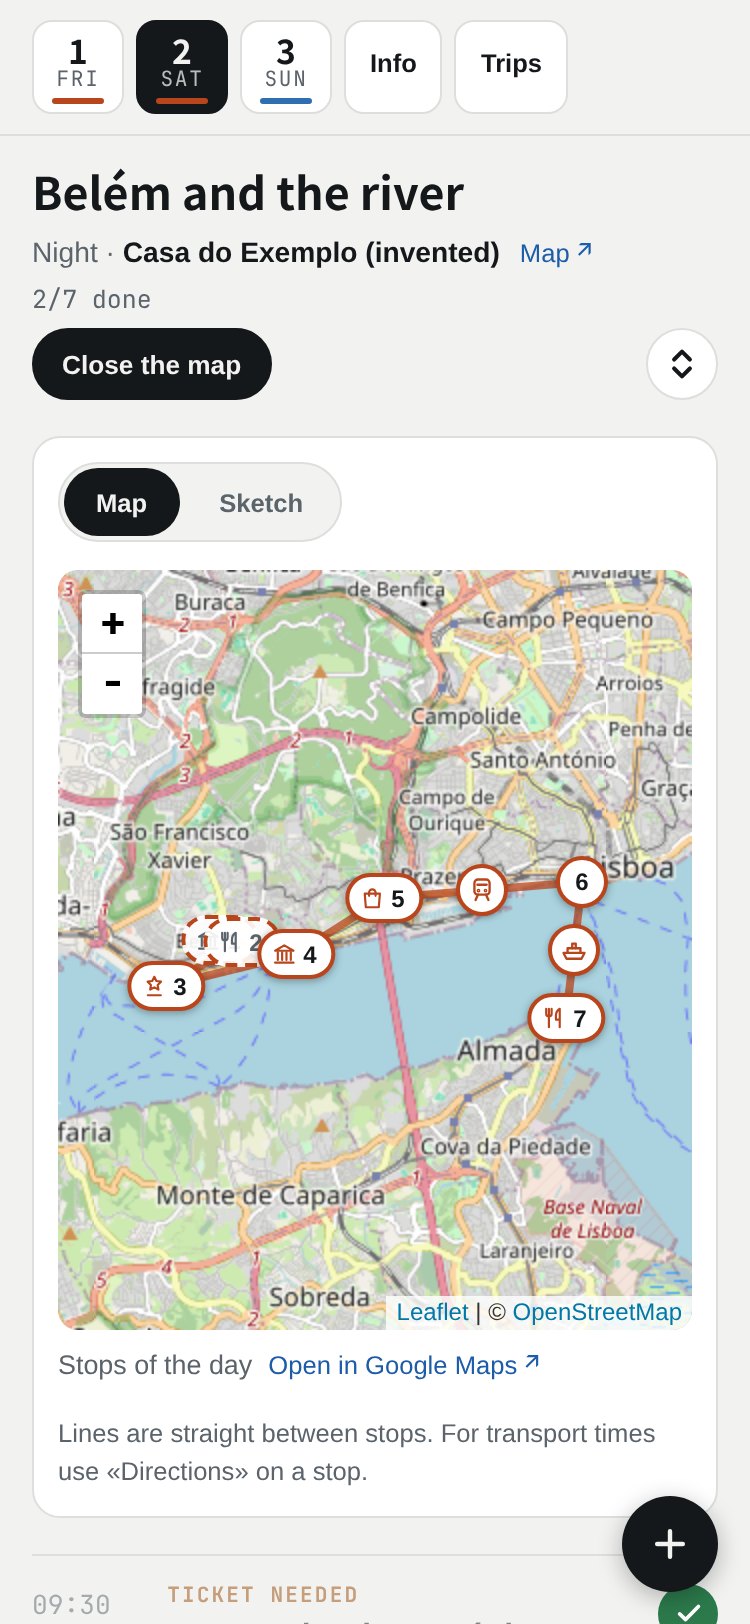
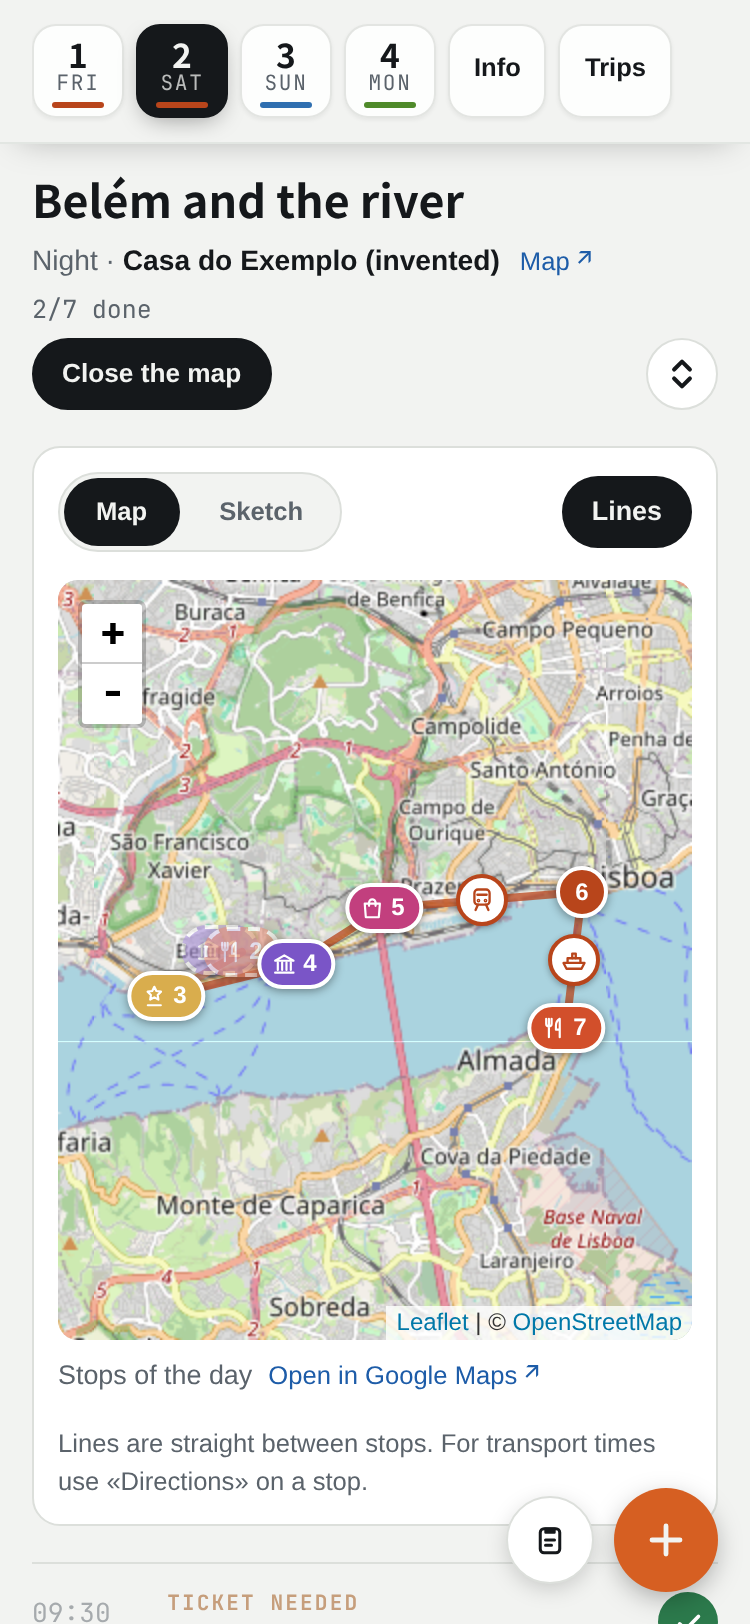
3.3.0: Paste at the bottom of every page; hour and minute lists; orange +
- A Paste button next to +, on every page of an open trip: it reads what
  was copied and does what the Share menu does on Android (a Google Maps
  place opens the stop form filled in; a trip or an assistant's changes
  are loaded). On an iPhone, where web apps cannot be share targets, this
  is the way in: Copy, then Paste. Both go through takeText() in
  js/app.js. If the phone does not hand over the clipboard, a field to
  paste by hand opens. While the page scrolls down it shrinks to its icon.
- The time of a stop is chosen from two lists, hour and minutes, instead
  of <input type="time">: Chrome on Android put its clock's Set button
  off narrow screens.
- The + button is the accent colour in both themes; the dark grey one
  was hard to see.
- README: install on iPhone from Safari or Chrome; Copy then Paste on
  iPhone. Screenshots retaken.

diff --git a/js/app.js b/js/app.js
@@ -23,6 +23,7 @@ const CHEVRON = '<svg viewBox="0 0 16 16" fill="none" aria-hidden="true"><path d
 const UNFOLD = '<svg viewBox="0 0 16 16" fill="none" aria-hidden="true"><path d="M4.5 6L8 2.5 11.5 6M4.5 10L8 13.5 11.5 10" stroke="currentColor" stroke-width="1.8" stroke-linecap="round" stroke-linejoin="round"/></svg>';
 const FOLD = '<svg viewBox="0 0 16 16" fill="none" aria-hidden="true"><path d="M4.5 2.5L8 6l3.5-3.5M4.5 13.5L8 10l3.5 3.5" stroke="currentColor" stroke-width="1.8" stroke-linecap="round" stroke-linejoin="round"/></svg>';
 const PLUS = '<svg viewBox="0 0 24 24" fill="none" aria-hidden="true"><path d="M12 5v14M5 12h14" stroke="currentColor" stroke-width="2.4" stroke-linecap="round"/></svg>';
+const CLIP = '<svg viewBox="0 0 24 24" fill="none" aria-hidden="true"><rect x="5.5" y="4.5" width="13" height="16" rx="2.5" stroke="currentColor" stroke-width="2"/><path d="M9 4.5h6v2.5H9z" fill="currentColor" stroke="currentColor" stroke-width="1.6" stroke-linejoin="round"/><path d="M9 12h6M9 15.5h4" stroke="currentColor" stroke-width="2" stroke-linecap="round"/></svg>';
 const DOTS = '<svg viewBox="0 0 16 16" aria-hidden="true"><circle cx="3.5" cy="8" r="1.5" fill="currentColor"/><circle cx="8" cy="8" r="1.5" fill="currentColor"/><circle cx="12.5" cy="8" r="1.5" fill="currentColor"/></svg>';
 const CHECK = '<svg viewBox="0 0 16 16" fill="none" aria-hidden="true"><path d="M3 8.5l3.2 3L13 4.5" stroke="currentColor" stroke-width="2" stroke-linecap="round" stroke-linejoin="round"/></svg>';
 
@@ -424,8 +425,18 @@ function markStrip(){
   $days.classList.toggle("more-l", $days.scrollLeft > 2);
   $days.classList.toggle("more-r", $days.scrollLeft < max - 2);
 }
+// Paste at the bottom: while the page scrolls down it shrinks to its icon, so it
+// covers less of the stops; scrolling up, or at the top or the end, it has its word.
+let lastY = 0;
+function markFabs(){
+  const y = scrollTop(), el = scroller || document.documentElement;
+  const atEnd = y + el.clientHeight >= el.scrollHeight - 24;
+  if(y < 40 || atEnd || y < lastY - 6) $fabs.classList.remove("compact");
+  else if(y > lastY + 6) $fabs.classList.add("compact");
+  if(Math.abs(y - lastY) > 6) lastY = y;
+}
 let stripFrame = 0;
-const onScroll = () => { if(!stripFrame) stripFrame = requestAnimationFrame(() => { stripFrame = 0; markStrip(); }); };
+const onScroll = () => { if(!stripFrame) stripFrame = requestAnimationFrame(() => { stripFrame = 0; markStrip(); markFabs(); }); };
 (scroller || window).addEventListener("scroll", onScroll, {passive: true});
 window.addEventListener("resize", onScroll, {passive: true});
 $days.addEventListener("scroll", onScroll, {passive: true});
@@ -492,8 +503,10 @@ function copyErrors(){
 }
 
 // A trip pasted as text, as a chat assistant gives it: no file to save on the phone.
+// `any`: opened by the Paste button when the phone would not hand over what was
+// copied, so it takes a place too (takeText decides).
 let pasteDialog = null;
-function pasteTrip(){
+function pasteTrip(any = false){
   if(!pasteDialog){
     pasteDialog = document.createElement("dialog");
     pasteDialog.className = "sheet";
@@ -503,8 +516,8 @@ function pasteTrip(){
   }
   const d = pasteDialog;
   d.innerHTML = `<form class="sheet-form" novalidate>
-    <div class="sheet-head"><h2 id="paste-title">${esc(t("pasteTrip"))}</h2><button type="button" class="iconbtn" data-close aria-label="${esc(t("cancel"))}">×</button></div>
-    <p class="foot">${esc(t("pasteHelp"))}</p>
+    <div class="sheet-head"><h2 id="paste-title">${esc(t(any ? "paste" : "pasteTrip"))}</h2><button type="button" class="iconbtn" data-close aria-label="${esc(t("cancel"))}">×</button></div>
+    <p class="foot">${esc(t(any ? "pasteAnyHelp" : "pasteHelp"))}</p>
     <textarea id="paste-text" rows="8" autocomplete="off" autocapitalize="off" spellcheck="false" placeholder='{"format": "travel-in-my-pocket/1", …}'></textarea>
     <p class="errbox" data-error role="alert" hidden></p>
     <div class="sheet-actions">
@@ -524,15 +537,14 @@ function pasteTrip(){
   };
   d.querySelector("form").onsubmit = async e => {
     e.preventDefault();
-    const text = jsonIn(area.value);
-    if(!text){
+    if(!area.value.trim()){
       const box = d.querySelector("[data-error]");
       box.textContent = t("pasteEmpty");
       box.hidden = false;
       return;
     }
     d.close();
-    try{ await importText(text, "pasted.json"); }
+    try{ if(any) await takeText(area.value, "pasted.json"); else await importText(jsonIn(area.value), "pasted.json"); }
     catch(err){ S.importError = {title: t("importFailed"), items: [String(err && err.message || err)]}; render(); }
   };
   d.showModal();
@@ -853,21 +865,27 @@ function syncLive(wanted){
   live.handle.setMarks(wanted.gone);
 }
 
-const $fab = document.createElement("button");
-$fab.type = "button";
-$fab.className = "fab";
-$fab.hidden = true;
-$fab.innerHTML = PLUS;
-document.body.appendChild($fab);
+// The buttons at the bottom right: Paste on every page of an open trip, + on a day.
+const $fabs = document.createElement("div");
+$fabs.className = "fabs";
+$fabs.hidden = true;
+$fabs.innerHTML = `<button type="button" class="fab-paste">${CLIP}<span></span></button><button type="button" class="fab">${PLUS}</button>`;
+document.body.appendChild($fabs);
+const $fab = $fabs.querySelector(".fab"), $fabPaste = $fabs.querySelector(".fab-paste");
 $fab.addEventListener("click", () => newStop());
+$fabPaste.addEventListener("click", () => pasteAnything());
 
 function render(){
   const r = route();
   renderStrip(r);
+  $fabs.hidden = r.name === "welcome";
   $fab.hidden = r.name !== "day";
   $fab.setAttribute("aria-label", t("addStop"));
   $fab.title = t("addStop");
-  document.body.classList.toggle("has-fab", r.name === "day");
+  $fabPaste.querySelector("span").textContent = t("paste");
+  $fabPaste.title = t("pasteAnyHelp");
+  $fabPaste.setAttribute("aria-label", t("paste"));
+  document.body.classList.toggle("has-fab", !$fabs.hidden);
   // While the page is rebuilt the interactive map is out of it, and the page is shorter
   // by its height: a browser that lays the page out in that moment pulls the scroll up
   // (a tap on ⋯ or Edit under an open map jumped by the map's height). The page keeps
@@ -1150,12 +1168,29 @@ async function takeSharedPlace(){
   if(!parts.length && q.get("shared") !== "1") return;
   history.replaceState(null, "", location.pathname + location.hash);
   if(!parts.length) return;
-  const json = jsonIn(parts.join("\n"));
-  if(/"format"\s*:\s*"travel-in-my-pocket\//.test(json)){ importText(json, "shared.json"); return; }
+  takeText(parts.join("\n"), "shared.json");
+}
+
+// What was shared or pasted, wherever it came from: JSON (a trip, or an assistant's
+// changes, even with text around it) is loaded; anything else is a place, and opens
+// the stop form filled in. The share menu on Android and the Paste button everywhere
+// end here, so they behave the same.
+async function takeText(text, name){
+  const json = jsonIn(text);
+  if(json.startsWith("{")){ await importText(json, name); return; }
   if(!trip()){ toast(t("shareNeedsTrip")); return; }
   // The Maps app often repeats the link inside the text: keep each piece once.
-  const text = [...new Set(parts.join("\n").split("\n").map(s => s.trim()).filter(Boolean))].join("\n");
-  newStop(text);
+  newStop([...new Set(String(text).split("\n").map(s => s.trim()).filter(Boolean))].join("\n"));
+}
+
+// The Paste button: what was copied, in one tap (iPhone shows its own Paste bubble
+// first). If the phone will not hand it over, or nothing was copied, a field to paste
+// it by hand.
+async function pasteAnything(){
+  let text = "";
+  try{ text = await navigator.clipboard.readText(); }catch(e){}
+  if(text && text.trim()) await takeText(text, "pasted.json");
+  else pasteTrip(true);
 }
 
 /* ---------- start ---------- */

diff --git a/js/i18n.js b/js/i18n.js
@@ -11,7 +11,7 @@ export const STRINGS = {
     loadTrip: "Load a trip file",
     tryDemo: "Try the example trip",
     installTitle: "Before you leave",
-    installIos: "**iPhone**: open this page in Safari, tap Share, then «Add to Home Screen». Load the trip from the icon on the Home Screen, not from Safari.",
+    installIos: "**iPhone**: open this page in Safari (or Chrome), tap Share, then «Add to Home Screen». Load the trip from the icon on the Home Screen, not from Safari.",
     installAndroid: "**Android**: open the browser menu and tap «Install app» or «Add to Home screen».",
     installOnce: "Open the app once with a connection, then it also works in airplane mode.",
     makeYourOwn: "How to create a trip file",
@@ -50,7 +50,8 @@ export const STRINGS = {
     fAddressPh: "Paste or write here",
     fAddressHelp: "What Google Maps shares, a full address, or coordinates. Name and position are filled in for you.",
     paste: "Paste",
-    fTitle: "Name", fDay: "Day", fTime: "Time", fPlan: "Plan", routeLines: "Lines",
+    pasteAnyHelp: "Paste what you copied: a place from Google Maps, a trip, or the changes an assistant wrote.",
+    fTitle: "Name", fDay: "Day", fTime: "Time", fHour: "Hour", fMinute: "Minutes", fPlan: "Plan", routeLines: "Lines",
     sunTimes: "Sunrise {r} · sunset {s}", afterDark: "After sunset",
     timeWords: "Write it in words", timeClock: "Use the clock", timeWordsPh: "Evening",
     fTravel: "How you get there", travel_none: "Other",
@@ -112,7 +113,7 @@ export const STRINGS = {
     aiEditTitle: "Have an AI assistant change this trip",
     aiEdit1: "Copy the message: it has an outline of this trip, nothing to save or attach.",
     aiEdit2: "Paste it into the assistant and write what to change in place of the part in brackets.",
-    aiEdit3: "The assistant answers with the changes only. Copy them and tap Paste a trip: the app applies them as a new version.",
+    aiEdit3: "The assistant answers with the changes only. Copy them and tap Paste, at the bottom: the app applies them as a new version.",
     aiEditPrompt: "Change my trip in the TIMP app like this: [what to change].\nAnswer only with the changes, in the format below, in one JSON block. Change nothing else.",
     aiEditMore: "(…followed by how to write changes and the outline of \u201c{t}\u201d, copied with the message.)",
     changesFailed: "These changes cannot be applied", changesNoTrip: "There is no trip \u201c{id}\u201d on this phone.", changesNoOpen: "Open the trip to change first.",
@@ -145,7 +146,7 @@ export const STRINGS = {
     loadTrip: "Carica un file viaggio",
     tryDemo: "Prova il viaggio di esempio",
     installTitle: "Prima di partire",
-    installIos: "**iPhone**: apri questa pagina in Safari, tocca Condividi, poi «Aggiungi alla schermata Home». Carica il viaggio dall'icona nella Home, non da Safari.",
+    installIos: "**iPhone**: apri questa pagina in Safari (o Chrome), tocca Condividi, poi «Aggiungi alla schermata Home». Carica il viaggio dall'icona nella Home, non da Safari.",
     installAndroid: "**Android**: apri il menu del browser e tocca «Installa app» o «Aggiungi a schermata Home».",
     installOnce: "Apri l'app una volta con la rete: poi funziona anche in modalità aereo.",
     makeYourOwn: "Come creare un file viaggio",
@@ -184,7 +185,8 @@ export const STRINGS = {
     fAddressPh: "Incolla o scrivi qui",
     fAddressHelp: "Quello che condivide Google Maps, un indirizzo completo o delle coordinate. Nome e posizione si compilano da soli.",
     paste: "Incolla",
-    fTitle: "Nome", fDay: "Giorno", fTime: "Orario", fPlan: "Piano", routeLines: "Linee",
+    pasteAnyHelp: "Incolla quello che hai copiato: un luogo da Google Maps, un viaggio, o le modifiche scritte da un assistente.",
+    fTitle: "Nome", fDay: "Giorno", fTime: "Orario", fHour: "Ora", fMinute: "Minuti", fPlan: "Piano", routeLines: "Linee",
     sunTimes: "Alba {r} · tramonto {s}", afterDark: "Dopo il tramonto",
     timeWords: "Scrivilo a parole", timeClock: "Usa l'orologio", timeWordsPh: "Sera",
     fTravel: "Come ci si arriva", travel_none: "Altro",
@@ -246,7 +248,7 @@ export const STRINGS = {
     aiEditTitle: "Fai modificare questo viaggio a un assistente AI",
     aiEdit1: "Copia il messaggio: contiene un riassunto di questo viaggio, niente da salvare o allegare.",
     aiEdit2: "Incollalo nell'assistente e scrivi cosa cambiare al posto della parte tra parentesi.",
-    aiEdit3: "L'assistente risponde solo con le modifiche. Copiale e tocca Incolla un viaggio: l'app le applica come nuova versione.",
+    aiEdit3: "L'assistente risponde solo con le modifiche. Copiale e tocca Incolla, in basso: l'app le applica come nuova versione.",
     aiEditPrompt: "Modifica il mio viaggio nell'app TIMP così: [cosa cambiare]. Scrivi i testi in italiano.\nRispondi solo con le modifiche, nel formato qui sotto, in un unico blocco JSON. Non cambiare nient'altro.",
     aiEditMore: "(…segue come scrivere le modifiche e il riassunto di \u201c{t}\u201d, copiati insieme al messaggio.)",
     changesFailed: "Queste modifiche non si possono applicare", changesNoTrip: "Su questo telefono non c'è il viaggio \u201c{id}\u201d.", changesNoOpen: "Apri prima il viaggio da modificare.",

diff --git a/css/app.css b/css/app.css
@@ -300,13 +300,19 @@ ol.stops{list-style:none;margin:0;padding:0}
 .aihow .steps{margin-top:8px}
 .errbox b{font-weight:600}
 
-/* the + button: a stop added on the day on screen */
-.fab{position:fixed;right:calc(max(16px,env(safe-area-inset-right,0px)));bottom:calc(16px + env(safe-area-inset-bottom,0px));z-index:15;width:48px;height:48px;border-radius:50%;border:0;background:var(--ink);color:var(--bg);display:grid;place-items:center;cursor:pointer;box-shadow:0 3px 12px rgba(0,0,0,.28);padding:0}
-.fab svg{width:22px;height:22px}
-.fab:active{transform:scale(.96)}
-/* dark theme: a raised dark button, not a white disc */
-@media (prefers-color-scheme: dark){ :root:not([data-theme="light"]) .fab{background:#2b3137;color:var(--ink);box-shadow:0 0 0 1px rgba(255,255,255,.08),0 8px 24px rgba(0,0,0,.6)} }
-:root[data-theme="dark"] .fab{background:#2b3137;color:var(--ink);box-shadow:0 0 0 1px rgba(255,255,255,.08),0 8px 24px rgba(0,0,0,.6)}
+/* bottom right: Paste (what was copied: a place, a trip, changes) and + (a stop on the
+   day on screen). + is the one coloured button, in both themes. */
+.fabs{position:fixed;right:calc(max(16px,env(safe-area-inset-right,0px)));bottom:calc(16px + env(safe-area-inset-bottom,0px));z-index:15;display:flex;align-items:center;gap:10px}
+.fab{width:52px;height:52px;border-radius:50%;border:0;background:var(--accent);color:var(--bg);display:grid;place-items:center;cursor:pointer;box-shadow:0 4px 14px -2px rgba(0,0,0,.35);padding:0;-webkit-tap-highlight-color:transparent}
+.fab svg{width:24px;height:24px}
+.fab-paste{display:inline-flex;align-items:center;gap:7px;height:44px;padding:0 16px 0 13px;border-radius:999px;border:1px solid var(--line);background:var(--surface);color:var(--ink);font:600 .88rem var(--f-body);cursor:pointer;box-shadow:0 3px 12px -2px rgba(0,0,0,.22);-webkit-tap-highlight-color:transparent}
+.fab-paste svg{width:18px;height:18px;flex:none}
+.fab-paste span{max-width:8em;overflow:hidden;white-space:nowrap;transition:max-width .2s,opacity .15s}
+/* while the page scrolls down: only the icon, a circle */
+.fab-paste{transition:padding .2s,gap .2s}
+.fabs.compact .fab-paste{padding:0 12px;gap:0}
+.fabs.compact .fab-paste span{max-width:0;opacity:0}
+.fab:active,.fab-paste:active{transform:scale(.96)}
 body.has-fab main.gutter{padding-bottom:96px}
 body.has-fab #toast{bottom:calc(80px + env(safe-area-inset-bottom,0px))}
 
@@ -319,11 +325,15 @@ body.has-fab #toast{bottom:calc(80px + env(safe-area-inset-bottom,0px))}
 .sheet-head h2{font:700 1.2rem/1.2 var(--f-display);margin:0}
 .sheet-head .iconbtn{margin-left:0;font-size:1.4rem;line-height:1}
 .sheet .field{display:grid;gap:6px;min-width:0}
-.sheet .field.two{grid-template-columns:1.6fr 1fr;gap:10px}
+.sheet .field.two{grid-template-columns:1.4fr 1fr;gap:10px}
 .sheet label,.sheet .label{font-weight:600;font-size:.88rem}
 .sheet input,.sheet select,.sheet textarea{font:500 .95rem var(--f-body);padding:10px 12px;border:1px solid var(--line);border-radius:10px;background:var(--bg);color:var(--ink);width:100%;min-height:44px;min-width:0}
 .sheet textarea{resize:vertical;min-height:72px;line-height:1.45}
 .sheet [data-time-mode]{justify-self:start;font-size:.82rem}
+/* the time: hour and minutes, two lists side by side */
+.sheet .clock{display:flex;align-items:center;gap:4px;min-width:0}
+.sheet .clock select{flex:1 1 0;padding:10px 4px 10px 8px;font:500 .95rem var(--f-mono);font-variant-numeric:tabular-nums}
+.sheet .clock > span{font:600 1rem var(--f-mono);color:var(--muted)}
 .sheet #stop-src{resize:none;min-height:44px;line-height:1.4;overflow-y:auto}
 /* the map in the stop form, to put the pin by hand */
 .pickwrap{display:grid;gap:8px;min-width:0}
@@ -382,4 +392,4 @@ html:has(dialog[open]){overflow:hidden}
 #toast .x:hover{opacity:1}
 
 @media (max-width:380px){ .stop{grid-template-columns:3.6rem 1fr auto;gap:10px} .rows > div{grid-template-columns:1fr} }
-@media (prefers-reduced-motion: reduce){ #days{scroll-behavior:auto} .chev{transition:none} }
+@media (prefers-reduced-motion: reduce){ #days{scroll-behavior:auto} .chev,.fab-paste,.fab-paste span{transition:none} }

diff --git a/js/editor.js b/js/editor.js
@@ -64,11 +64,16 @@ export function openStopEditor(o){
     searching: false
   };
   const s0 = o.stop || {};
-  // The time: the phone's own clock picker, or words ("Evening") for a time that is not
-  // a clock time. A stop that has words keeps them.
+  // The time: hour and minutes from two lists, or words ("Evening") for a time that is
+  // not a clock time. A stop that has words keeps them. Not <input type="time">: Chrome
+  // on Android opens its own clock, whose Set button falls off narrow screens.
   const time0 = s0.time || timeNow(o.timezone);
   const clock0 = clockMinutes(time0);
-  const hhmm = m => String(Math.floor(m / 60)).padStart(2, "0") + ":" + String(m % 60).padStart(2, "0");
+  const two = n => String(n).padStart(2, "0");
+  const h0 = clock0 !== null ? Math.floor(clock0 / 60) : 12, m0 = clock0 !== null ? clock0 % 60 : 0;
+  // Minutes in steps of five, plus the stop's own minute when it is not one of them.
+  const minutes = [...new Set([...Array(12).keys()].map(i => i * 5).concat(m0))].sort((a, b) => a - b);
+  const opts = (list, cur) => list.map(n => `<option value="${two(n)}"${n === cur ? " selected" : ""}>${two(n)}</option>`).join("");
 
   const days = o.trip.days;
   const dayOptions = days.map((d, i) => {
@@ -111,8 +116,8 @@ export function openStopEditor(o){
         <select id="stop-day">${dayOptions}</select>
       </div>
       <div class="field">
-        <label for="stop-time">${esc(t("fTime"))}</label>
-        <input id="stop-time" type="time" required value="${clock0 !== null ? hhmm(clock0) : ""}"${clock0 !== null ? "" : " hidden"}>
+        <label for="stop-hh" id="stop-time-label">${esc(t("fTime"))}</label>
+        <span id="stop-time" class="clock" role="group" aria-labelledby="stop-time-label"${clock0 !== null ? "" : " hidden"}><select id="stop-hh" aria-label="${esc(t("fHour"))}">${opts([...Array(24).keys()], h0)}</select><span aria-hidden="true">:</span><select id="stop-mm" aria-label="${esc(t("fMinute"))}">${opts(minutes, m0)}</select></span>
         <input id="stop-time-words" type="text" autocomplete="off" aria-label="${esc(t("fTime"))}" placeholder="${esc(t("timeWordsPh"))}" value="${clock0 === null ? esc(time0) : ""}"${clock0 === null ? "" : " hidden"}>
         <button type="button" class="linkbtn" data-time-mode>${esc(t(clock0 !== null ? "timeWords" : "timeClock"))}</button>
       </div>
@@ -300,7 +305,7 @@ export function openStopEditor(o){
       const toWords = !clock.hidden;
       clock.hidden = toWords; words.hidden = !toWords;
       e.target.closest("[data-time-mode]").textContent = t(toWords ? "timeClock" : "timeWords");
-      (toWords ? words : clock).focus();
+      (toWords ? words : $("#stop-hh")).focus();
       return;
     }
     for(const kind of ["type", "travel"]){
@@ -356,7 +361,7 @@ export function openStopEditor(o){
     const address = st.address || (day.city ? `${title}, ${day.city}` : undefined);
     const stop = {
       ...s0,
-      time: ($("#stop-time").hidden ? $("#stop-time-words") : $("#stop-time")).value.trim() || timeNow(o.timezone),
+      time: ($("#stop-time").hidden ? $("#stop-time-words").value.trim() : `${$("#stop-hh").value}:${$("#stop-mm").value}`) || timeNow(o.timezone),
       title,
       type: st.type || undefined,
       travel: st.travel || undefined,

diff --git a/README.md b/README.md
@@ -54,7 +54,7 @@ Retake them with <code>npm run screenshots</code>.</sub></p>
 
 1. Open <https://frafal.github.io/TIMP/>.
 2. Install it on the Home Screen:
-   - **iPhone**: open the page in Safari, tap Share, then "Add to Home Screen".
+   - **iPhone**: open the page in Safari (or Chrome), tap Share, then "Add to Home Screen".
    - **Android**: open the browser menu, tap "Install app" or "Add to Home screen".
 3. Open it from the new icon and tap **Load a trip file**. Pick the `.json` file you
    received (from Files, Drive, a chat).
@@ -105,9 +105,11 @@ Google Maps and the form opens already filled in; share an AI assistant's answer
 `.json` file, and the trip or the changes are loaded. (After an update, Android can take
 a day to learn that TIMP accepts files; removing the app and installing it again is
 immediate.)
-**iPhone:** Safari does not let web apps receive shared content, so in Maps tap Share →
-Copy, then in the app tap + and **Paste**; for a trip, copy it and use **Paste a trip**,
-or save the `.json` file in Files and use **Load a trip file**.
+**iPhone:** iOS does not let web apps receive shared content, whatever the browser they
+were installed from. Copy instead, then tap **Paste** at the bottom of the app: it reads
+what you copied and does the same as the Share menu on Android. In Maps, Share → Copy;
+from an AI assistant, copy the answer. A `.json` file: save it in Files and use **Load a
+trip file**. (iPhone shows its own small Paste bubble first: tap it.)
 
 When a position has to be looked up, the app asks Google (with a key that has the
 Geocoding API enabled, see below) or OpenStreetMap otherwise. It searches around the
@@ -220,7 +222,7 @@ place is the one mistake no automatic check can catch.
 For bigger ones, at the bottom of **Trips** open **Have an AI assistant change this
 trip**: one button copies a message with an outline of the trip, you write what to
 change, and the assistant answers with the changes only, a few lines instead of the
-whole file. Paste them with **Paste a trip** (on Android, share the answer to TIMP):
+whole file. Copy them and tap **Paste** (on Android, share the answer to TIMP):
 the app applies them as a new version, and Undo is one tap in History. A coding agent
 can also work on the latest file the app saved (Trips → Save the file).
 

diff --git a/CHANGELOG.md b/CHANGELOG.md
@@ -4,6 +4,18 @@ Versions follow [Semantic Versioning](https://semver.org/). The trip file format
 its own version: `travel-in-my-pocket/2` since 3.0. Files in `travel-in-my-pocket/1`
 (1.0 to 2.4) still load: the app converts them.
 
+## 3.3.0
+
+- **Paste**, at the bottom of every page of a trip, next to +: it reads what you copied
+  and does what the Share menu does on Android. A place from Google Maps opens the stop
+  form filled in; an AI assistant's answer, a trip or its changes, is loaded. On an
+  iPhone, where web apps cannot appear in the Share menu, this is the way in: Copy, then
+  Paste. If the phone does not hand over what was copied, a field to paste it opens.
+  While the page scrolls down it shrinks to its icon; scrolling up, its word is back.
+- The time of a stop is chosen from two lists, hour and minutes, instead of the phone's
+  clock: Chrome on Android put that clock's Set button off narrow screens.
+- The + button is the accent colour in both themes: the dark one was hard to see.
+
 ## 3.2.1
 
 - Samsung Internet can install the app again: it failed ("Download failed") with the
